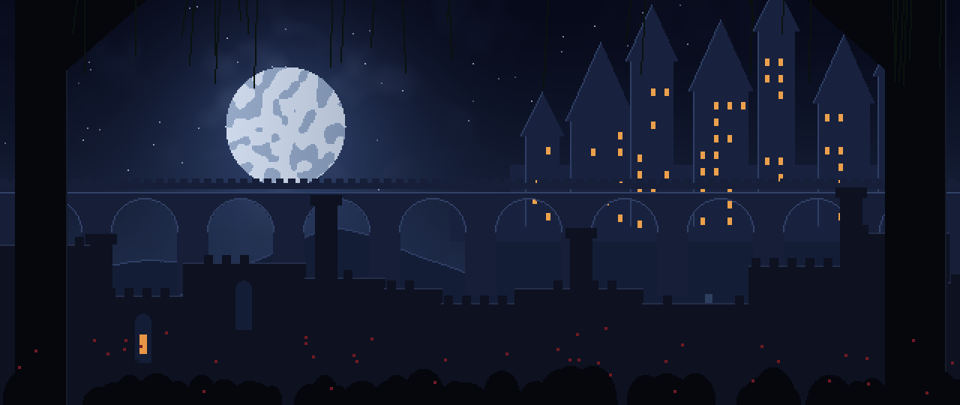
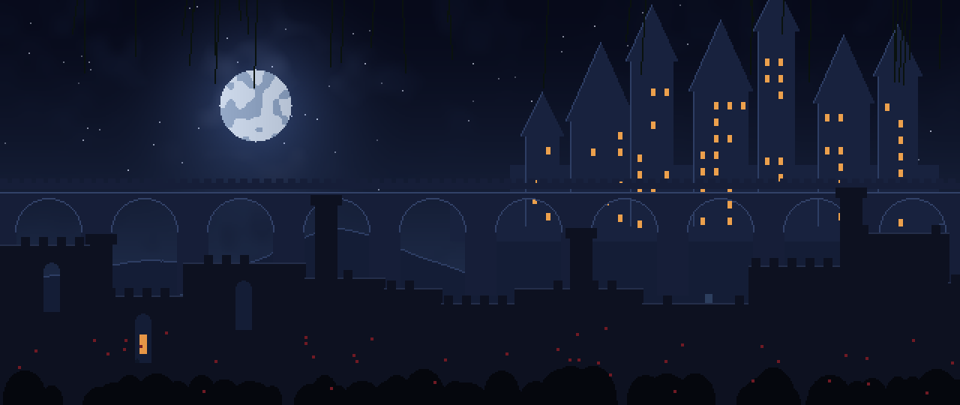
Tune room look: smaller moon, no foreground pillar, softer torch light; add screenshot tool and preview

diff --git a/AshenVeil_Python/tools/gen_parallax.py b/AshenVeil_Python/tools/gen_parallax.py
@@ -30,10 +30,10 @@ def sky():
     top, bot = np.array([7, 10, 26]), np.array([46, 66, 104])
     a = (top + (bot - top) * (ys ** 1.4))[:, None, :] * np.ones((1, W, 1))
     img = np.broadcast_to(a, (H, W, 3)).copy()
-    mx, my, mr = 190, 84, 40
+    mx, my, mr = 170, 70, 24
     yy, xx = np.mgrid[0:H, 0:W]
     dist = np.hypot(xx - mx, yy - my)
-    glow = np.clip(1 - dist / 170, 0, 1) ** 2.2
+    glow = np.clip(1 - dist / 110, 0, 1) ** 2.2
     img += glow[..., None] * np.array([40, 56, 84])
     n = noise(W, H, 32, 5) * 0.6 + noise(W, H, 12, 6) * 0.4
     cloud = np.clip((n - 0.5) * 3.2, 0, 1) * np.clip(1 - dist / 230, 0.25, 1)
@@ -132,10 +132,6 @@ def foreground():
     im = Image.new("RGBA", (W, H), (0, 0, 0, 0)); d = ImageDraw.Draw(im)
     col, edge = (5, 7, 13, 255), (22, 28, 44, 255)
     rng = np.random.default_rng(15)
-    for px, w in ((10, 34), (590, 40)):                 # big pillars with arch springers
-        d.rectangle([px, 0, px + w, H], fill=col); d.line([(px + w, 0), (px + w, H)], fill=edge)
-    d.polygon([(44, 0), (44, 46), (96, 0)], fill=col)           # arch springers
-    d.polygon([(590, 0), (590, 46), (538, 0)], fill=col)
     for _ in range(30):                                  # hanging vines
         x = int(rng.integers(0, W)); l = int(rng.integers(10, 60))
         d.line([(x, 0), (x + int(rng.integers(-3, 3)), l)], fill=(10, 18, 14, 255), width=1)

diff --git a/docs/PROGRESS.md b/docs/PROGRESS.md
@@ -11,7 +11,7 @@ Priority: SAVE PROGRESS > MANY FEATURES. Commit and push after every small step.
 - Godot step 2 done: `godot/player.gd` (run, jump, dodge, light1->light2 combo, heavy, skill, hurt, death) builds animations from `player.png`/`player.json`; `main.tscn` has a test floor + camera. Headless test `godot/tests/test_player.gd` passes 13/13.
 - Controls: A/D or arrows move, Space/W jump, Shift dodge, J or LMB light (press again for combo), K or RMB heavy, E skill.
 
-- Godot step 3 done: `godot/room.gd` builds the first room in code (5 parallax layers from `assets/parallax/`, tiled stone floor, 5 one-way platforms, 7 torches with flickering PointLight2D, banners, statue, ladder, chains, CanvasModulate dusk tint). Camera zoom 1.25. Headless test 14/14. NOT yet visually reviewed by the owner.
+- Godot step 3 done: `godot/room.gd` builds the first room in code (5 parallax layers from `assets/parallax/`, tiled stone floor, 5 one-way platforms, 7 torches with flickering PointLight2D, banners, statue, ladder, chains, CanvasModulate dusk tint). Camera zoom 1.25. Headless test 14/14. Rendered screenshot: `docs/room_preview.png` (made with `xvfb-run -a godot --rendering-driver opengl3 --resolution 1280x720 --path godot --script res://tests/screenshot.gd -- out.png`).
 
 ## Decision
 Port to Godot 4 (GDScript) for 2D lights, parallax, particles and shaders. Python version stays as a fallback.
